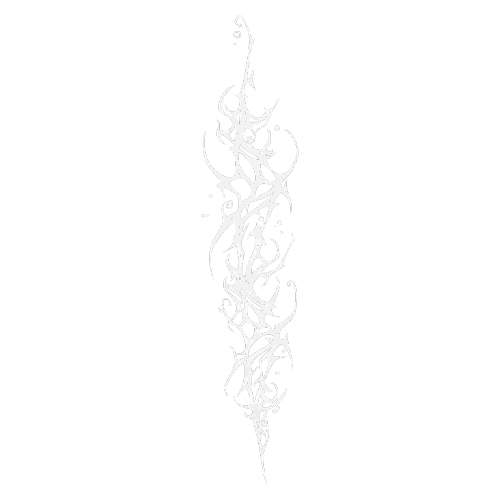
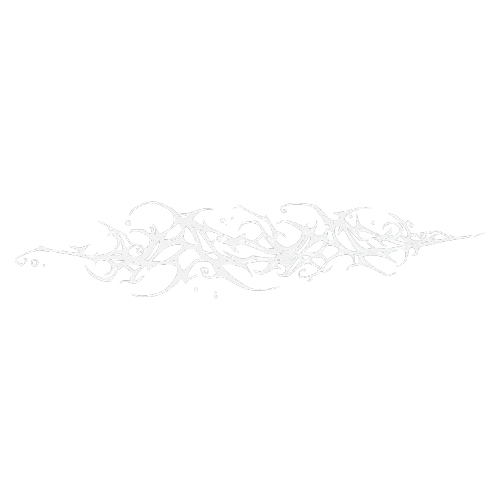
final

diff --git a/index.html b/index.html
@@ -12,6 +12,10 @@
     <link rel="preconnect" href="https://fonts.gstatic.com" crossorigin>
     <link href="https://fonts.googleapis.com/css2?family=Tiny5+Duo:ital,wght@0,100..900;1,100..900&display=swap" rel="stylesheet">  
 
+<!--font for popover text-->
+    <link rel="preconnect" href="https://fonts.googleapis.com">
+    <link rel="preconnect" href="https://fonts.gstatic.com" crossorigin>
+    <link href="https://fonts.googleapis.com/css2?family=Cascadia+Code:ital,wght@0,200..700;1,200..700&display=swap" rel="stylesheet">
 
 </head>
 
@@ -26,6 +30,7 @@ body {
    background-size: cover;
    background-repeat: no-repeat;
    background-attachment: fixed;
+   overflow: hidden;
   
 }
 
@@ -47,6 +52,11 @@ body {
 }
 
 
+.container {
+  display: flex;
+  flex-wrap: wrap; 
+  gap: 15px;
+}
 
 /* graphics on page*/
 .graphicLeft {
@@ -56,13 +66,9 @@ body {
     margin-left: -160px;
 }
 
-.graphicRight{
-  position: relative;
-  margin-right: -500px;
-  transform: translateX(1000px);
-}
 
-.graphicTop{
+
+.graphic1-container{
     position: absolute;
     transform: translateY(-900px);
     margin-left: 1040px;
@@ -109,11 +115,16 @@ a :hover{
   </div>
 
 <!--img sources for graphics-->
+<div class = "graphic1-container">
 <img src = "graphictop.png" width = "350" height = "350" class = "graphicTop">
+</div>
 
 <img src = "graphicLEFT.png" width = "600" height = "900" class = "graphicLeft">
 
-<img src = "binaryside2.png" width = "700" height = "800" class = "graphicRight">
+<img src = "graphicRIGHT.png" width = "700" height = "800" class = "graphicRight">
+
+
+
 
 <!--typewriter effects-->
 <div class = "cursor typewriter">
@@ -125,50 +136,146 @@ a :hover{
 
 <!--2-->
 <div class = "cursor2 typewriter2">
-     <a href = "https://chaseatlantic.com/collections/all">
-         <p> > merch </p>
+     <a href = "https://portal.chaseatlantic.com/auth">
+         <p> > ready to enter the portal? </p>
     </a>
 </div>
 
 <!--3-->
 <div class = "cursor3 typewriter3">
-    <a href = "https://portal.chaseatlantic.com/auth">
-         <p> > ready to enter the portal? </p>
-    </a>
-   
+    <a href = "https://chaseatlantic.com/collections/all">
+         <p> > merch </p>
+    </a>  
 </div>
 
-<button popovertarget = "americapopup">north american leg </button>>
+
+<!--north america leg button+popover-->
+<button popovertarget = "americapopup" style = "text-align: center">._.north american leg._. </button>>
 
 <div id="americapopup" popover>
     <div class = "content1">
-        <h2>--north america--</h2>
-
-        <p>
-            Irving, TX        
-             <span style = "float: right; color: pink;">10.16</span><br>
-            Houston, TX <br>
-            San Antonio, TX <br>
-            Orlando, FL <br>
-            St. Petersburg, FL <br>
-            Atlanta, GA <br>
-            Nashville, TN <br>
-            Raleigh, NC <br>
-            Washington, D.C. <br>
-            Brooklyn, NY <br>
-            Chicago, IL <br>
-            Minneapolis, MN <br>
-            Denver, CO <br>
-            Salt Lake City, UT <br>
-            Las Vegas, NV <br>
-            Phoenix, AZ <br>
-            Los Angeles, CA <br>
-        </span>
+        <h2>._.north america._.</h2>
+            <p>
+            Irving, TX.........     
+             <span style = "float: right; color: rgb(206, 48, 156);">....10.16</span><br>
+            Houston, TX........
+             <span style = "float: right; color: rgb(206, 48, 156);">....10.17</span><br>
+            San Antonio, TX....
+            <span style = "float: right; color: rgb(206, 48, 156);">....10.18</span><br>
+            Orlando, FL........
+            <span style = "float: right; color:rgb(206, 48, 156);">....10.20</span><br>
+            St. Petersburg, FL.
+            <span style = "float: right; color:rgb(206, 48, 156);">....10.21</span><br>
+            Atlanta, GA........
+            <span style = "float: right; color:rgb(206, 48, 156);">....10.23</span><br>
+            Nashville, TN......
+            <span style = "float: right; color:rgb(206, 48, 156);">....10.24</span><br>
+            Raleigh, NC........
+            <span style = "float: right; color:rgb(206, 48, 156);">....10.26</span><br>
+            Washington, D.C.... 
+            <span style = "float: right; color: rgb(206, 48, 156);">....10.27</span><br>
+            Brooklyn, NY....... 
+            <span style = "float: right; color:rgb(206, 48, 156);">....10.28</span><br>
+            Philadelphia, PA...       
+             <span style = "float: right; color: rgb(206, 48, 156);">....10.30</span><br>
+            Boston, MA.........        
+             <span style = "float: right; color: rgb(206, 48, 156);">....11.01</span><br>
+            Montreal, QC.......    
+             <span style = "float: right; color: rgb(206, 48, 156);">....11.03</span><br>
+            Toronto, ON........        
+             <span style = "float: right; color: rgb(206, 48, 156);">....11.05</span><br>
+            Detroit, MI........      
+             <span style = "float: right; color: rgb(206, 48, 156);">....11.06</span><br>
+            Chicago, IL........
+            <span style = "float: right; color:rgb(206, 48, 156);">....11.08</span><br>
+            Minneapolis, MN.... 
+            <span style = "float: right; color:rgb(206, 48, 156);">....11.09</span><br>
+            Denver, CO......... 
+            <span style = "float: right; color: rgb(206, 48, 156);">....11.12</span><br>
+            Salt Lake City, UT.
+            <span style = "float: right; color: rgb(206, 48, 156);">....11.13</span><br>
+            Las Vegas, NV...... 
+            <span style = "float: right; color:rgb(206, 48, 156);">....11.15</span><br>
+            Phoenix, AZ........ 
+            <span style = "float: right; color:rgb(206, 48, 156);">....11.16</span><br>
+            Los Angeles, CA.... 
+            <span style = "float: right; color:rgb(206, 48, 156);">....11.19</span><br>
+            <span style = "float: right; color: rgb(206, 48, 156);">11.20</span>
         </p>
        
         </div>
 
         <button popovertarget="americapopup" popovertargetaction = "hide">close</button>
+    </div>
+</div>
+
+
+<!--australia + nz leg button+popover-->
+<button popovertarget = "oceaniapopup">._.oceania leg._.</button>>
+
+<div id="oceaniapopup" popover>
+    <div class = "content2">
+        <h2>._.oceania._.</h2>
+            <p>
+            Auckland, New Zealand...       
+             <span style = "float: right; color: rgb(206, 48, 156);">....12.07</span><br>
+            Melbourne, Australia.... 
+             <span style = "float: right; color: rgb(206, 48, 156);">....12.11</span><br>
+            Sydney, Australia....... 
+            <span style = "float: right; color: rgb(206, 48, 156);">....12.12</span><br>
+            Brisbane, Australia..... 
+            <span style = "float: right; color:rgb(206, 48, 156);">....12.15</span><br>
+            Adelaide, Australia..... 
+            <span style = "float: right; color:rgb(206, 48, 156);">....12.28</span><br>
+            Perth, Australia........
+            <span style = "float: right; color:rgb(206, 48, 156);">....11.20</span><br>
+        </p>
+       
+        </div>
+
+        <button popovertarget="oceaniapopup" popovertargetaction = "hide">close</button>
+    </div>
+
+</div>
+
+
+<!--europe leg button+popover-->
+<button popovertarget = "europepopup">._.europe leg._. </button>>
+
+<div id="europepopup" popover>
+    <div class = "content3">
+        <h2>._.europe._.</h2>
+            <p>
+            Hamburg, Germany.........    
+             <span style = "float: right; color: rgb(206, 48, 156);">....04.12</span><br>
+            Frederiksberg, Denmark...
+             <span style = "float: right; color: rgb(206, 48, 156);">....04.13</span><br>
+            Prague, Czech Republic... 
+            <span style = "float: right; color: rgb(206, 48, 156);">....04.15</span><br>
+            Lodz, Poland............. 
+            <span style = "float: right; color:rgb(206, 48, 156);">....04.16</span><br>
+            Berlin, Germany.......... 
+            <span style = "float: right; color:rgb(206, 48, 156);">....04.18</span><br>
+            Cologne, Germany.........
+            <span style = "float: right; color:rgb(206, 48, 156);">....04.20</span><br>
+            Paris, France............
+            <span style = "float: right; color:rgb(206, 48, 156);">....04.22</span><br>
+            <span style = "float: right; color:rgb(206, 48, 156);">04.23</span><br>
+            Amsterdam, Netherlands...
+            <span style = "float: right; color:rgb(206, 48, 156);">....04.24</span><br>
+            Brussels, Belgium........
+            <span style = "float: right; color:rgb(206, 48, 156);">....04.26</span><br>
+            Glasgow, Scotland........
+            <span style = "float: right; color:rgb(206, 48, 156);">....04.30</span><br>
+            Manchester, England......
+            <span style = "float: right; color:rgb(206, 48, 156);">....05.02</span><br>
+            London, England..........
+            <span style = "float: right; color:rgb(206, 48, 156);">....05.04</span><br>
+        </p>
+       
+        </div>
+
+        <button popovertarget="europepopup" popovertargetaction = "hide">close</button>
     </div>
 
 

diff --git a/style.css b/style.css
@@ -32,7 +32,11 @@
   .glitch span { animation: none; }
 }
 
-
+.grid-container {
+  display: grid;
+  grid-template-columns: repeat(auto-fit, minmax(250px, 1fr)); 
+  gap: 20px;
+}
 
 /* north american leg button + popup */
 button{
@@ -51,8 +55,9 @@ button{
   border-style:double;
   transform: translateY(-1360px);
   border-color: rgb(63, 19, 101);
-  margin-left: 408px;
+  margin-left: 430px;
   position: relative;
+  
 }
 
 [popover] {
@@ -65,6 +70,7 @@ button{
   position: absolute;
   transform: translateY(-20px);
   font-family: 'Courier New', Courier, monospace;
+ 
 }
 
 [popover]::backdrop {
@@ -75,17 +81,21 @@ button{
   font-family: "Tiny5 Duo", sans-serif;
   font-weight: 300;
   text-align: center;
+  color: rgb(206, 48, 156);
+  box-sizing: border-box;
  }
 
  [popover] p{
-  font-family: 'Courier New', Courier, monospace;
+  font-family: "Cascadia Code", sans-serif;
   line-height: 1.6;
   align-self: flex-end;
 
  }
 
-
  
+
+
+
 
 
 
